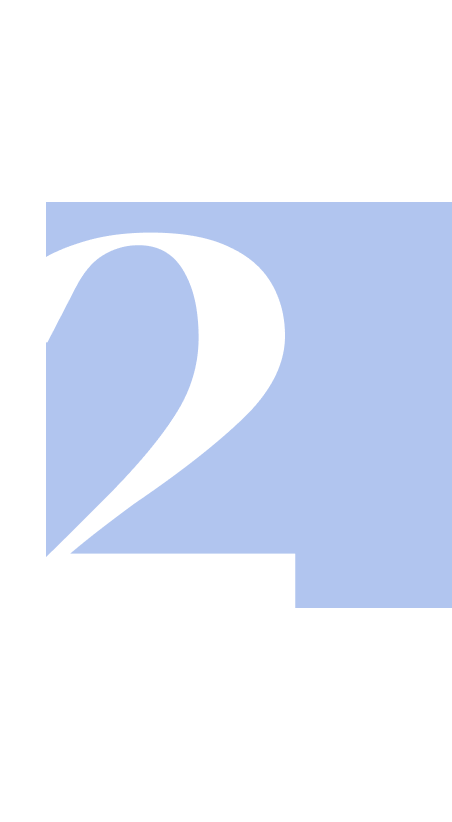
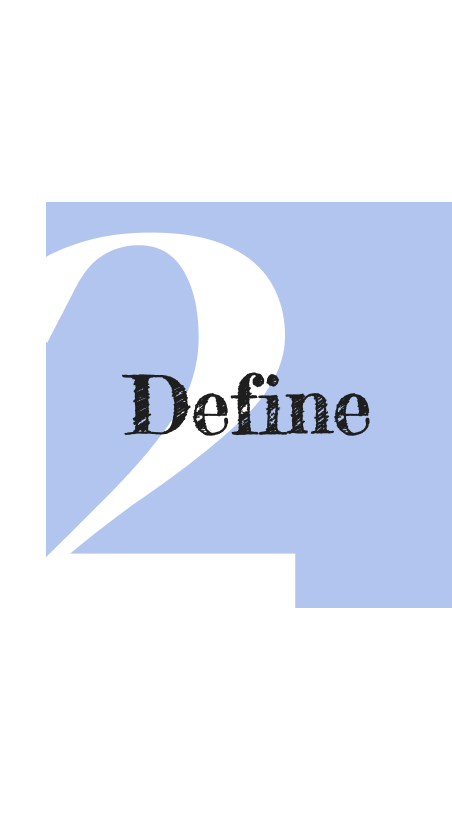
first section complete
user interviews and surveys added

Changed region(s): [[0.2788, 0.4562, 0.8363, 0.5474]]

diff --git a/index.html b/index.html
@@ -77,7 +77,7 @@
         </div>
     </div>
     <!-- <--Bootstrap Cols & Cards-->
-
+    <!-- <-project information-->
     <div class="container-fluid">
         <div class="row projectInfo">
             <div class="cardcontainer col-lg-3 col-md-3 col-sm-6 col-xs-6">
@@ -123,7 +123,7 @@
                 </div>
             </div>
         </div>
-
+        <!-- <--Quote-->
         <div class="container-fluid">
             <div class="row">
                 <div class="offset col-2"></div>
@@ -138,10 +138,27 @@
                 </div>
             </div>
         </div>
-
-        <h5 class="workhp">Work</h5>
-        <section class="mainBody">
-
+        <!-- <--Process -->
+        <div class="pro1">
+            <img class="prcsimg" src="images/1 research.png" width="203px">
+            <img class="prcsimg" src="images/2 Define.png" width="203px">
+            <img class="prcsimg" src="images/3 Ideate.png" width="203px">
+            <img class="prcsimg" src="images/4 Prototype.png" width="203px">
+            <img class="prcsimg" src="images/5 test.png" width="203px">
+        </div>
+        <h5 class="secHeads">Research</h5>
+        <section class="UserInterviews">
+            <div class="content">
+                <p class="R13">User Interviews & Surverys</p>
+                <p>Initiated research with 4 user interviews and a survey to understanding the process, goals,
+                    motivations and pain-points of users when exploring non-profit websites.
+                    The following insights stood out:</p>
+            </div>
+            <div class="InterviewImages">
+                <img class="intInsImg" src="images/user insight 1.png">
+                <img class="intInsImg" src="images/user insight 2.png">
+                <img class="intInsImg" src="images/user insight 3.png">
+            </div>
         </section>
         <footer>
 

diff --git a/css/style.css b/css/style.css
@@ -59,14 +59,14 @@ h4{
     font-size: 40px;
     margin-top: 0px;
     margin-bottom: 0px;
-    block-size: 79px;
+    /* block-size: 79px; */
     padding:0px;
     color: #1e1e1e;
     font-weight:lighter;
     font-family: 'Fredericka the Great', serif;
     -webkit-text-stroke: 0.6px;
     letter-spacing:0px;
-    background: linear-gradient(to top, #FCBF38 73%, transparent 27%);
+    /* background: linear-gradient(to top, #FCBF38 73%, transparent 27%); */
 }
 
 h5{
@@ -174,7 +174,12 @@ h6{
     font-weight: 800;
     font-family: 'Raleway', sans-serif;
 }
-
+.R13{
+    font-size: 32px;
+    color: #1e1e1e;
+    font-weight: 900;
+    font-family: 'Raleway', sans-serif;
+}
 p { 
     font-size: 16px;
     color: #1e1e1e;
@@ -319,7 +324,7 @@ li{
     background-color: #4F7DDD;
 }
 .cardcontainer{
-    margin-top: 8px;
+    margin-top:13px;
     margin-bottom: 0px;
 }
 .card{
@@ -331,6 +336,39 @@ li{
     margin-top: -34px;
     margin-bottom: -10px;
 }
+.pro1{
+    display: flex;
+    flex-direction: row;
+    justify-content: space-around;
+    align-items: center;
+}
+section{
+    margin-left: 3rem;
+    margin-right: 3rem;
+}
+.secHeads{
+    position: relative;
+    margin-bottom: -88px;
+    z-index: -1;
+}
+.content{
+    max-width: 433px;
+    width: auto;
+    text-align: left;
+}
+.InterviewImages{
+    display: flex;
+    flex-direction: row;
+}
+.intInsImg{
+    max-width: 315px;
+    width: auto;
+    margin: auto;
+    margin-top: 15px;
+    margin-bottom: 15px;
+}
+
+
 footer{
     display:flex;
     flex-direction: row;
@@ -432,14 +470,6 @@ nav ul{
 nav{
     display:inline-block;
 }
-/* .row{
-    grid-row:1 /span1;}
-.row2{
-    grid-row:1/span2;
-}
-*, ::after, ::before {
-    box-sizing: border-box;
-} */
 
 @media only screen and (max-width:1200px) and (min-width:600px){
     footer{
